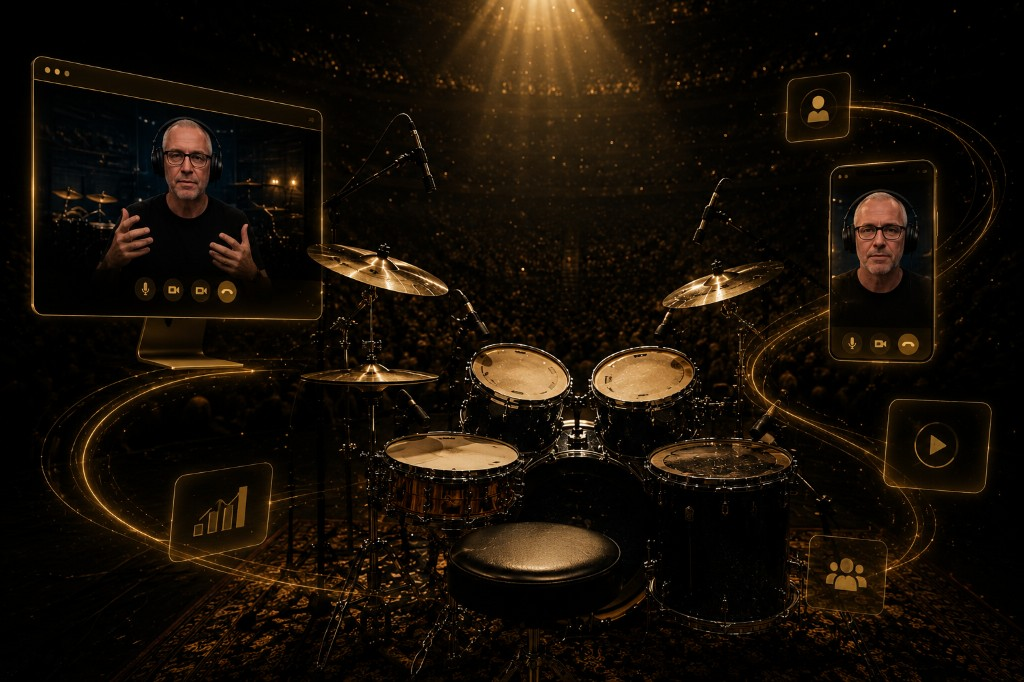
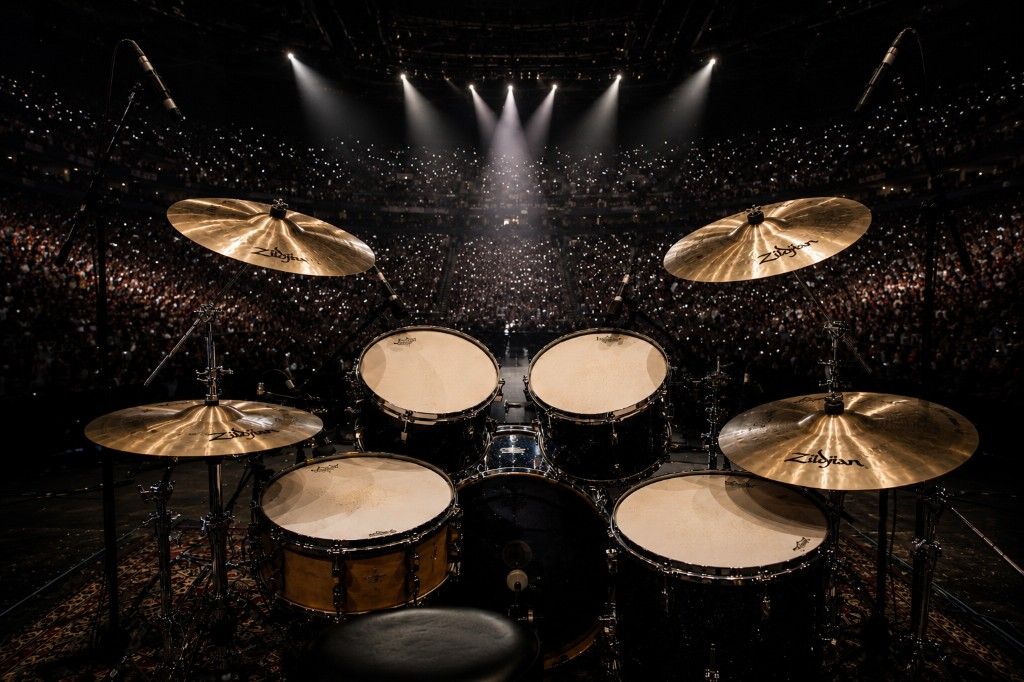
Update hero with full-viewport arena background.
Use new arena photo centered in the hero, tune overlays for readability, and size the hero to fill the initial viewport below the header.

diff --git a/src/pages/HomePage.tsx b/src/pages/HomePage.tsx
@@ -220,22 +220,22 @@ export function HomePage() {
   return (
     <div className="bg-void">
       {/* Hero */}
-      <section className="relative overflow-hidden border-b border-white/[0.06] bg-void">
+      <section className="relative flex min-h-[calc(100svh-4.5rem)] flex-col overflow-hidden border-b border-white/[0.06] bg-void md:min-h-[calc(100svh-5rem)]">
         <div
-          className="absolute inset-0 bg-cover bg-[center_42%] hero-kenburns"
+          className="absolute inset-0 bg-cover bg-center hero-kenburns"
           style={{ backgroundImage: "url('/hero-arena.png')" }}
           aria-hidden
         />
-        <div className="absolute inset-0 bg-gradient-to-r from-void/95 via-void/82 to-void/55 lg:via-void/78 lg:to-void/35" aria-hidden />
-        <div className="absolute inset-0 bg-gradient-to-b from-void/70 via-void/25 to-void/92" aria-hidden />
+        <div className="absolute inset-0 bg-gradient-to-r from-void/92 via-void/75 to-void/40 lg:via-void/65 lg:to-void/30" aria-hidden />
+        <div className="absolute inset-0 bg-gradient-to-b from-void/60 via-void/20 to-void/88" aria-hidden />
         <div
           className="pointer-events-none absolute inset-0 bg-[radial-gradient(ellipse_70%_55%_at_15%_40%,rgba(201,165,92,0.12),transparent_60%)]"
           aria-hidden
         />
         <div className="pointer-events-none absolute inset-0 grain opacity-25" aria-hidden />
 
-        <div className="relative z-10 mx-auto max-w-7xl px-5 py-14 md:px-8 md:py-16 lg:py-20">
-          <div className="grid items-center gap-10 lg:grid-cols-[minmax(0,1fr)_minmax(0,0.92fr)] lg:gap-12 xl:gap-16">
+        <div className="relative z-10 mx-auto flex w-full max-w-7xl flex-1 flex-col justify-center px-5 py-10 md:px-8 md:py-12 lg:py-14">
+          <div className="grid w-full items-center gap-10 lg:grid-cols-[minmax(0,1fr)_minmax(0,0.92fr)] lg:gap-12 xl:gap-16">
             <motion.div
               initial={{ opacity: 0, y: 16 }}
               animate={{ opacity: 1, y: 0 }}
